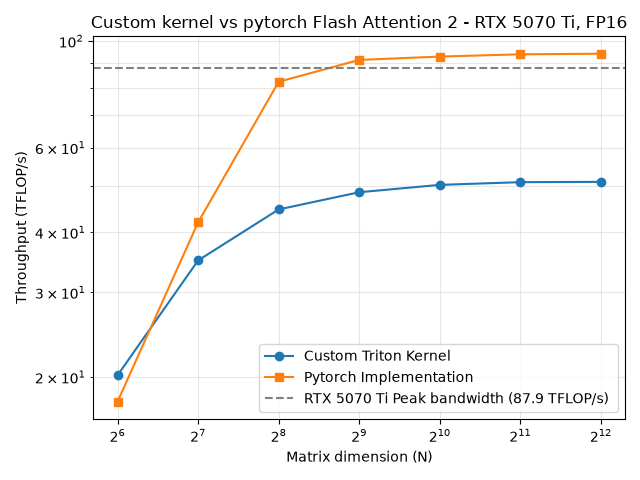
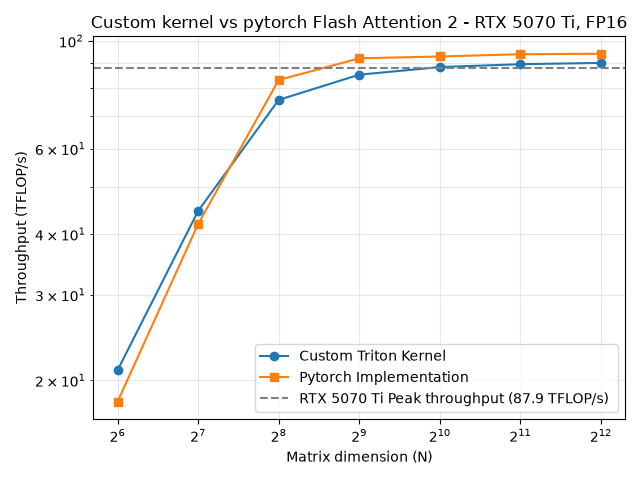
Add new autotune configurations

diff --git a/forward/kernel_fa2_forward.py b/forward/kernel_fa2_forward.py
@@ -1,5 +1,5 @@
-import os
-os.environ["TRITON_PRINT_AUTOTUNING"] = "1"
+# import os
+# os.environ["TRITON_PRINT_AUTOTUNING"] = "1"
 
 import triton
 import triton.language as tl
@@ -9,16 +9,19 @@ import torch.nn.functional as F
 from math import ceil, sqrt
 
 @triton.autotune(configs=[
-    # triton.Config(kwargs={"BS_row" : 16, "BS_col" : 16}, num_stages=3),
-    # triton.Config(kwargs={"BS_row" : 16, "BS_col" : 16}, num_stages=4),
-    # triton.Config(kwargs={"BS_row" : 16, "BS_col" : 16}, num_stages=5),
+    triton.Config(kwargs={"BS_row" : 16, "BS_col" : 16}, num_stages=3),
+    triton.Config(kwargs={"BS_row" : 16, "BS_col" : 16}, num_stages=4),
+    triton.Config(kwargs={"BS_row" : 16, "BS_col" : 16}, num_stages=5),
     triton.Config(kwargs={"BS_row" : 32, "BS_col" : 32}, num_stages=2),
     triton.Config(kwargs={"BS_row" : 32, "BS_col" : 32}, num_stages=3),
     triton.Config(kwargs={"BS_row" : 32, "BS_col" : 32}, num_stages=4),
-    # triton.Config(kwargs={"BS_row" : 32, "BS_col" : 64}, num_stages=4),
-    # triton.Config(kwargs={"BS_row" : 64, "BS_col" : 64}, num_stages=4),
-    # triton.Config(kwargs={"BS_row" : 16, "BS_col" : 128}, num_stages=2),
-    # triton.Config(kwargs={"BS_row" : 16, "BS_col" : 128}, num_stages=3),
+    triton.Config(kwargs={"BS_row" : 32, "BS_col" : 64}, num_stages=3),
+    triton.Config(kwargs={"BS_row" : 32, "BS_col" : 64}, num_stages=4),
+    triton.Config(kwargs={"BS_row" : 64, "BS_col" : 64}, num_stages=2),
+    triton.Config(kwargs={"BS_row" : 64, "BS_col" : 64}, num_stages=3),
+    triton.Config(kwargs={"BS_row" : 64, "BS_col" : 64}, num_stages=4),
+    triton.Config(kwargs={"BS_row" : 16, "BS_col" : 128}, num_stages=2),
+    triton.Config(kwargs={"BS_row" : 16, "BS_col" : 128}, num_stages=3),
 
 ],
     key=["size_row", "size_col"]
@@ -158,7 +161,7 @@ def _kernel_fa2_forward(
 
         o_row_term_1 = o_row * l_row_term_1[:, None]
 
-        o_row_term_2 = tl.dot(p, v.to(dtype=tl.float32))
+        o_row_term_2 = tl.dot(p.to(dtype=tl.bfloat16), v)
         o_row = o_row_term_1 + o_row_term_2
 
     o_row = o_row / (l_row[:, None] + 1e-6)
@@ -234,9 +237,8 @@ def fa2_forward(
     stride_L_batch = L_tensor.stride(0)
 
     hidden_dimension = triton.next_power_of_2(d)
-    batch_dimension = triton.next_power_of_2(heads*batch)
     
-    grid = lambda META : (ceil(N / META["BS_row"]), batch_dimension)
+    grid = lambda META : (ceil(N / META["BS_row"]), heads*batch)
     
     args = (
         q_tensor, k_tensor, v_tensor,

diff --git a/benchmark/forward_benchmark_v2.py b/benchmark/forward_benchmark_v2.py
@@ -18,7 +18,7 @@ def benchmark_forward():
     d = 64
     sizes_N = [64, 128, 256, 512, 1024, 2048, 4096]
     
-    dtype = torch.float16
+    dtype = torch.bfloat16
     device = torch.device("cuda:0" if torch.cuda.is_available() else "cpu")
     
     dict = {"size_N" : [], "kernel" : [], "pytorch" : []}
@@ -56,7 +56,7 @@ def benchmark_forward():
     
     plt.plot(dict["size_N"], dict["kernel"], marker="o",label="Custom Triton Kernel")
     plt.plot(dict["size_N"], dict["pytorch"], marker="s", label="Pytorch Implementation")
-    plt.axhline(PEAK_TFLOPS, linestyle="--", color="grey", label = f"RTX 5070 Ti Peak bandwidth ({PEAK_TFLOPS} TFLOP/s) ")
+    plt.axhline(PEAK_TFLOPS, linestyle="--", color="grey", label = f"RTX 5070 Ti Peak throughput ({PEAK_TFLOPS} TFLOP/s) ")
     
     plt.xscale("log", base=2)
     plt.yscale("log")

diff --git a/benchmark/forward_benchmark_v1.py b/benchmark/forward_benchmark_v1.py
@@ -19,7 +19,7 @@ def benchmark_forward():
     d = 64
     sizes_N = [64, 128, 256, 512, 1024, 2048, 4096]
     
-    dtype = torch.float16
+    dtype = torch.bfloat16
     device = torch.device("cuda:0" if torch.cuda.is_available() else "cpu")
     
     dict = {"size_N" : [], "kernel" : [], "pytorch" : []}